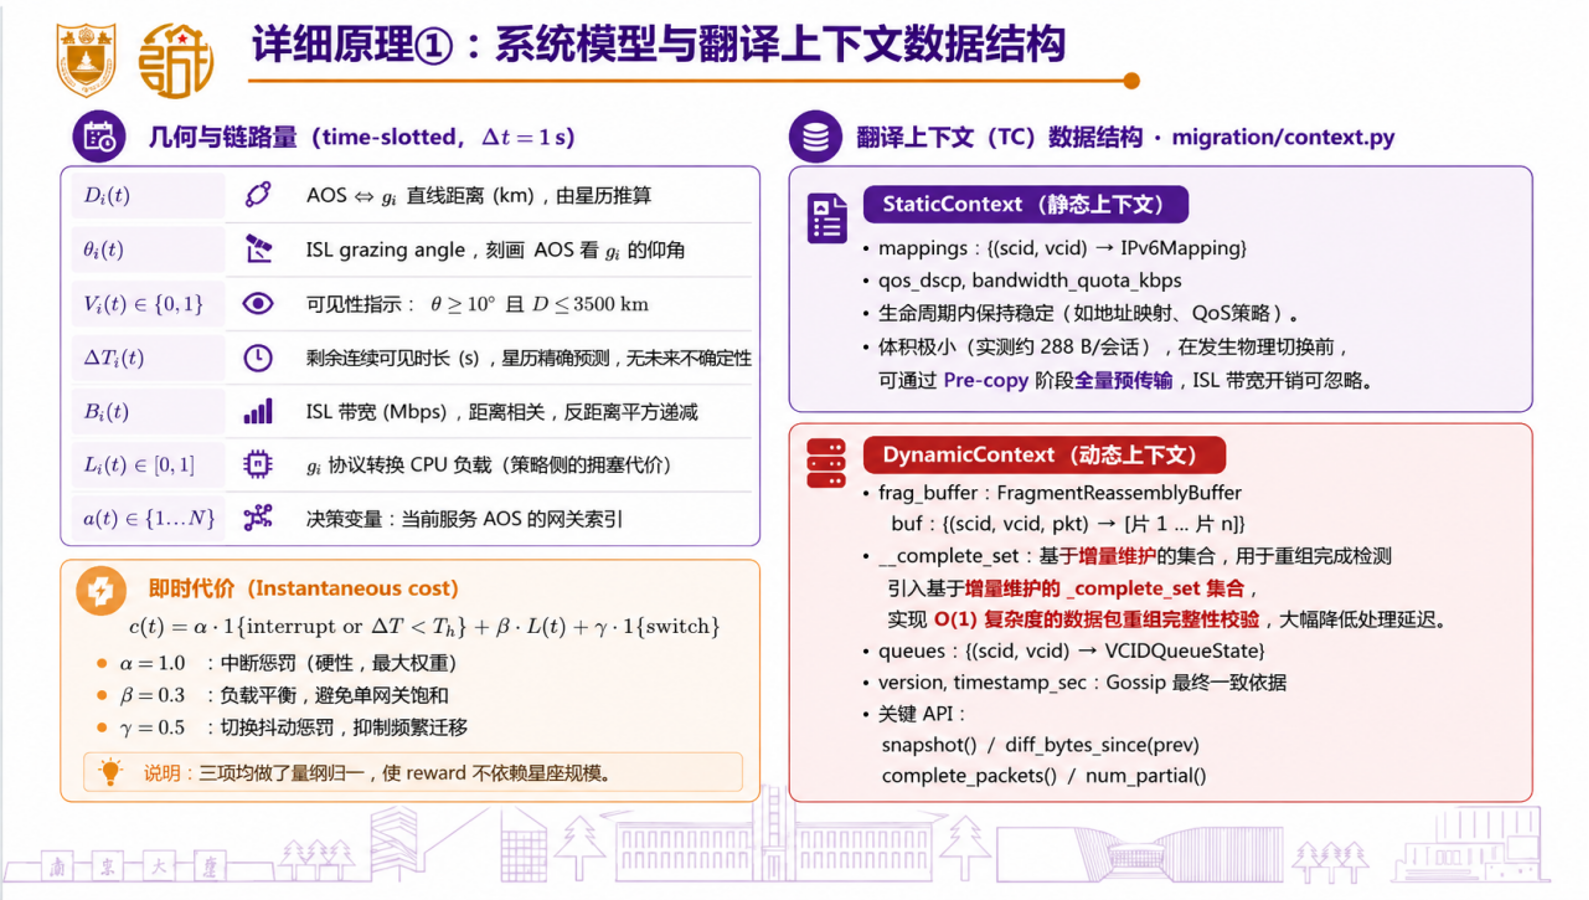
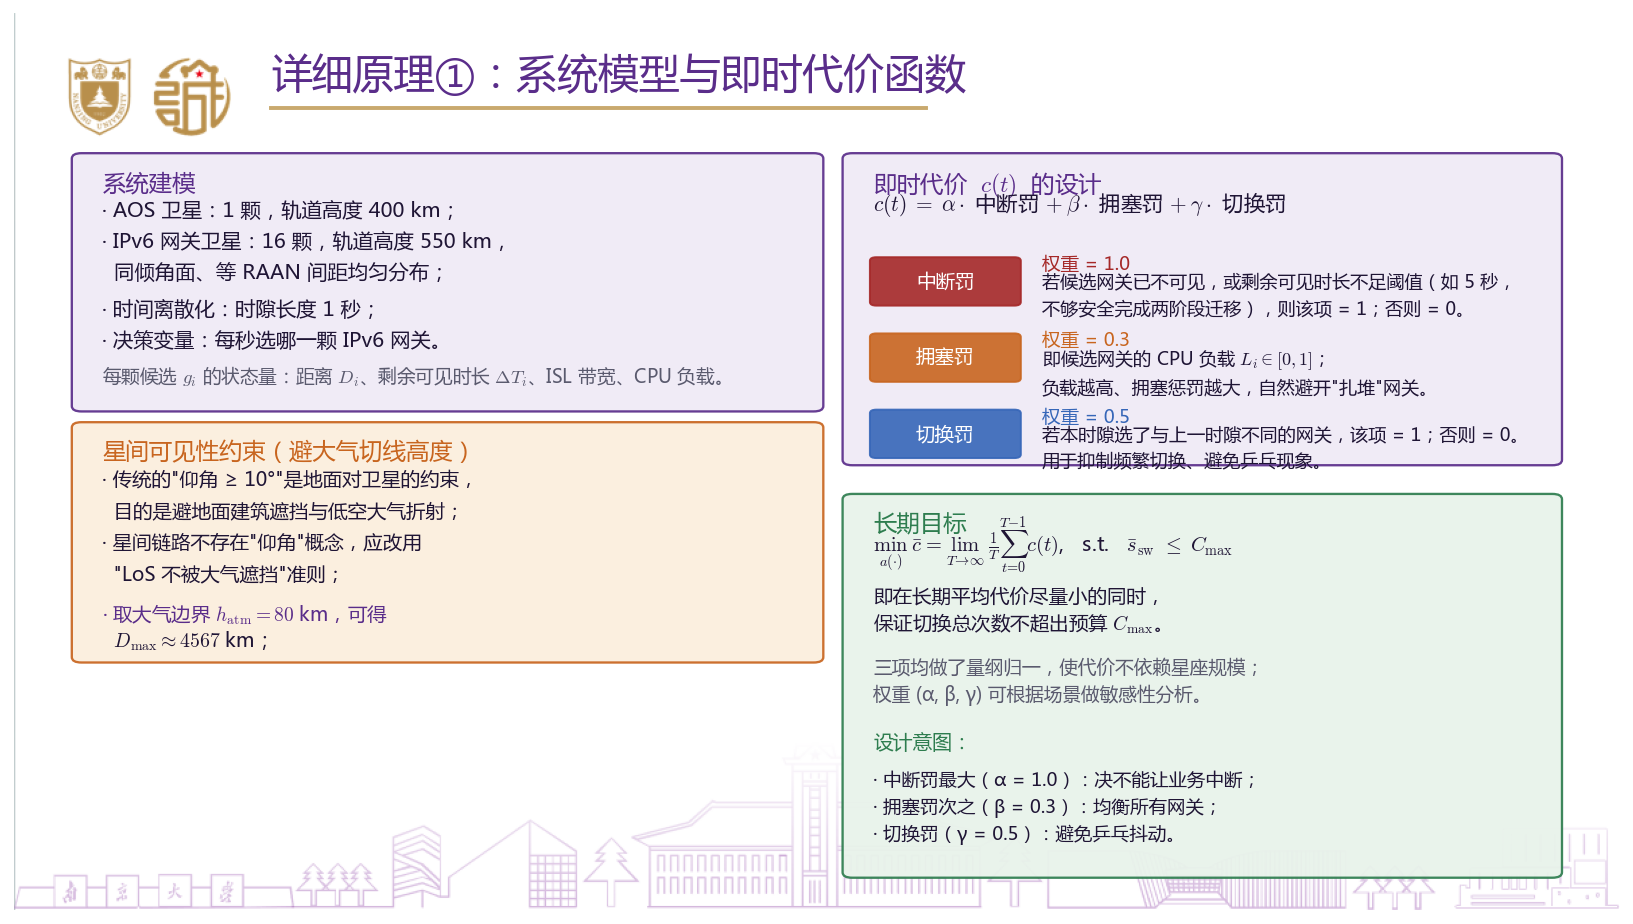
docs: 修正可见窗口/盲区/288B 推导 + 修正星间可见性几何约束 + 重写 slide_09
技术文档 (创新点三-完整技术文档.md)
- 2.1 加入"可见窗口的理论估算"小节：T_vis ≈ 2√(D_max²-d_min²)/|v_rel|
  代入典型值得 3-10 min；指出原 5-15 min 偏乐观
- 2.2 把"实测约 288 B/会话"改为"理论估算约 288 B/会话"+ 字节分解表格
  (4 流 × 44 B 映射 + 4 流 × 8 B QoS + 32 B 表头/对齐 + 48 B 元数据)
- 2.3 加入控制面 0.3-1 s 盲区的三段拆分表：
  天线重指向 + 链路重捕获 + 上下文重协商
- 4.1 系统模型与符号：
  · 加"星座构型"小节：1 颗 AOS @ 400km + 16 颗 IPv6 @ 550km
  · 删除原"仰角 ≥ 10° 且 D ≤ 3500 km"自相矛盾的可见性规则
  · 改为避大气切线高度准则:
    D_max = √((R+h_A)²-(R+h_atm)²) + √((R+h_G)²-(R+h_atm)²) ≈ 4567 km
  · 3500 km 作为保守工程门限保留

PPT - slide_09 重写（不再贴图）
- 删去"几何与链路量"表
- 左：系统建模面板（AOS/IPv6 配置 + 时间离散化 + 决策变量）
- 左下：星间可见性约束面板（说明为什么不用 10° 仰角 + Tangent Altitude）
- 右上：即时代价 c(t) 三项分项解释（中断罚 / 拥塞罚 / 切换罚 各自权重+触发条件）
- 右下：长期目标公式 + 设计意图

diff --git a/docs/build_ppt.py b/docs/build_ppt.py
@@ -224,7 +224,115 @@ def slide_08():
 # 08 详细原理①：系统模型 + TC
 # =========================================================
 def slide_09():
-    image_slide('09_principle_model.png', '09_principle_model.png')
+    fig, ax = new_slide()
+    header(ax, '详细原理①：系统模型与即时代价函数')
+
+    # ===== 左：星座构型 + 时间离散化 =====
+    title_panel(ax, 4, 56, 46, 28, '系统建模', color=PURPLE, fc=LIGHT_PURPLE)
+    ax.text(5.5, 78,
+            '· AOS 卫星：1 颗，轨道高度 400 km；',
+            fontsize=10.5, color=DARK, va='center', zorder=10)
+    ax.text(5.5, 74.5,
+            '· IPv6 网关卫星：16 颗，轨道高度 550 km，',
+            fontsize=10.5, color=DARK, va='center', zorder=10)
+    ax.text(5.5, 71,
+            '  同倾角面、等 RAAN 间距均匀分布；',
+            fontsize=10.5, color=DARK, va='center', zorder=10)
+    ax.text(5.5, 67,
+            '· 时间离散化：时隙长度 1 秒；',
+            fontsize=10.5, color=DARK, va='center', zorder=10)
+    ax.text(5.5, 63.5,
+            '· 决策变量：每秒选哪一颗 IPv6 网关。',
+            fontsize=10.5, color=DARK, va='center', zorder=10)
+    ax.text(5.5, 59.5,
+            r'每颗候选 $g_i$ 的状态量：距离 $D_i$、剩余可见时长 $\Delta T_i$、'
+            'ISL 带宽、CPU 负载。',
+            fontsize=9.6, color=GRAY, va='center', style='italic', zorder=10)
+
+    # ===== 左下：星间可见性约束 =====
+    title_panel(ax, 4, 28, 46, 26,
+                '星间可见性约束（避大气切线高度）',
+                color='#c8651f', fc=LIGHT_ORANGE)
+    ax.text(5.5, 48,
+            '· 传统的"仰角 ≥ 10°"是地面对卫星的约束，',
+            fontsize=10, color=DARK, va='center', zorder=10)
+    ax.text(5.5, 44.5,
+            '  目的是避地面建筑遮挡与低空大气折射；',
+            fontsize=10, color=DARK, va='center', zorder=10)
+    ax.text(5.5, 41,
+            '· 星间链路不存在"仰角"概念，应改用',
+            fontsize=10, color=DARK, va='center', zorder=10)
+    ax.text(5.5, 37.5,
+            '  "LoS 不被大气遮挡"准则；',
+            fontsize=10, color=DARK, va='center', zorder=10)
+    ax.text(5.5, 33,
+            r'· 取大气边界 $h_{\mathrm{atm}}=80$ km，可得',
+            fontsize=10, color=PURPLE, weight='bold', va='center', zorder=10)
+    ax.text(5.5, 30,
+            r'  $D_{\max}\approx 4567$ km；',
+            fontsize=10.2, color=DARK, va='center', zorder=10)
+
+    # ===== 右上：即时代价 c(t) =====
+    title_panel(ax, 52, 50, 44, 34, '即时代价  $c(t)$  的设计', color=PURPLE, fc=LIGHT_PURPLE)
+    ax.text(53.5, 78,
+            r'$c(t)\;=\;\alpha\cdot$ 中断罚 $+\;\beta\cdot$ 拥塞罚 $+\;\gamma\cdot$ 切换罚',
+            fontsize=11, color=DARK, zorder=10)
+    items = [
+        ('中断罚', '#a52828', '1.0',
+         '若候选网关已不可见，或剩余可见时长不足阈值（如 5 秒，\n'
+         '不够安全完成两阶段迁移），则该项 = 1；否则 = 0。'),
+        ('拥塞罚', '#c8651f', '0.3',
+         r'即候选网关的 CPU 负载 $L_i\in[0,1]$；'
+         '\n'
+         '负载越高、拥塞惩罚越大，自然避开"扎堆"网关。'),
+        ('切换罚', '#3666b8', '0.5',
+         '若本时隙选了与上一时隙不同的网关，该项 = 1；否则 = 0。\n'
+         '用于抑制频繁切换、避免乒乓现象。'),
+    ]
+    for i, (label, color, w, body) in enumerate(items):
+        y = 70 - i*8.5
+        ax.add_patch(FancyBboxPatch((53.5, y - 2.4), 9, 5,
+                                    boxstyle='round,pad=0.2,rounding_size=0.4',
+                                    fc=color, ec=color, alpha=0.9, zorder=3))
+        ax.text(58, y + 0.1, label, ha='center', va='center',
+                fontsize=10, color='white', weight='bold', zorder=11)
+        ax.text(64, y + 2.0, f'权重 = {w}',
+                fontsize=9.5, color=color, weight='bold', va='center', zorder=10)
+        ax.text(64, y - 1.5, body, fontsize=9.3, color=DARK, va='center',
+                linespacing=1.55, zorder=10)
+
+    # ===== 右下：长期目标 + 说明 =====
+    title_panel(ax, 52, 4, 44, 42, '长期目标', color='#2e7d4f', fc=LIGHT_GREEN)
+    ax.text(53.5, 40,
+            r'$\min_{a(\cdot)}\;\bar c \;=\; \lim_{T\to\infty}\;\frac{1}{T}\sum_{t=0}^{T-1} c(t)$,'
+            r'   s.t.   $\bar s_{\mathrm{sw}}\;\leq\;C_{\max}$',
+            fontsize=10.5, color=DARK, zorder=10)
+    ax.text(53.5, 35,
+            '即在长期平均代价尽量小的同时，',
+            fontsize=10, color=DARK, va='center', zorder=10)
+    ax.text(53.5, 32,
+            '保证切换总次数不超出预算 $C_{\\max}$。',
+            fontsize=10, color=DARK, va='center', zorder=10)
+    ax.text(53.5, 27,
+            r'三项均做了量纲归一，使代价不依赖星座规模；',
+            fontsize=9.6, color=GRAY, va='center', style='italic', zorder=10)
+    ax.text(53.5, 24,
+            '权重 (α, β, γ) 可根据场景做敏感性分析。',
+            fontsize=9.6, color=GRAY, va='center', style='italic', zorder=10)
+
+    ax.text(53.5, 18,
+            '设计意图：',
+            fontsize=10.2, color='#2e7d4f', weight='bold', zorder=10)
+    ax.text(53.5, 14.5,
+            '· 中断罚最大（α = 1.0）：决不能让业务中断；',
+            fontsize=9.5, color=DARK, va='center', zorder=10)
+    ax.text(53.5, 11.5,
+            '· 拥塞罚次之（β = 0.3）：均衡所有网关；',
+            fontsize=9.5, color=DARK, va='center', zorder=10)
+    ax.text(53.5, 8.5,
+            '· 切换罚（γ = 0.5）：避免乒乓抖动。',
+            fontsize=9.5, color=DARK, va='center', zorder=10)
+    save(fig, '09_principle_model.png')
 
 
 # =========================================================